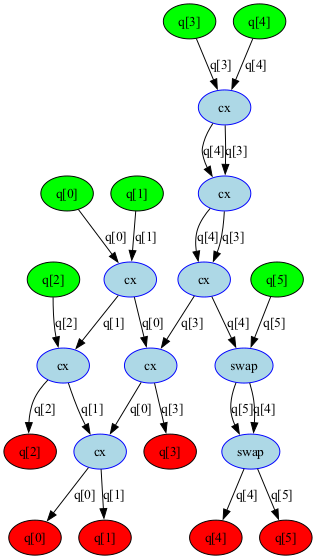
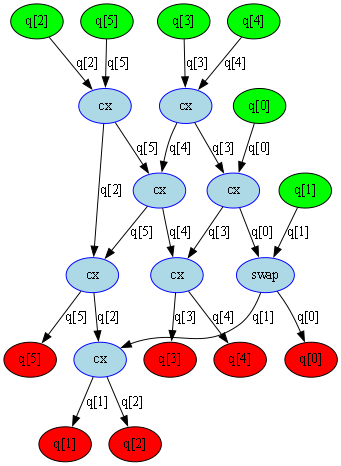
WE'VE DONE IT RAHHHHHHHHH

diff --git a/ZCswap_gaps.py b/ZCswap_gaps.py
@@ -249,27 +249,54 @@ class SabreSwap(TransformationPass):
         except TypeError:
             pass
 
+        print("if it messes up after this we're screwed")
+
         # if the gate doesnt match but applies on a line with gates stored, we need to apply the prior gate if possible, otherwise just add the gate into the buffer
         prior = None
-        if self.gate_storage[gate_control]:
-            prior = self.gate_storage[gate_control]["node"]
+        if isinstance(self.gate_storage[gate_control], dict):
+            print("found prior on control")
+            print(self.gate_storage[gate_control])
+            if not self.gate_storage[gate_control]["applied"]:
+                print("it wasn't applied")
+                prior = self.gate_storage[gate_control]["node"]
 
-        elif self.gate_storage[gate_target]:
-            prior = self.gate_storage[gate_target]["node"]
+        elif isinstance(self.gate_storage[gate_target], dict):
+            print("found prior on target")
+            print(self.gate_storage[gate_target])
+            if not self.gate_storage[gate_target]["applied"]:
+                print("it wasn't applied")
+                prior = self.gate_storage[gate_target]["node"]
 
-        if prior == self.node_buffer:
-            print("Tried to reapply same last gate")
-            print(self.gate_storage)
-            print(f"prior: {prior.op.name}, {prior.qargs}")
-            print(f"buffer: {self.node_buffer.op.name}, {self.node_buffer.qargs}")
-            print(self.gap_storage)
-            print(f"buffer str: {self.node_buffer}, prior str: {prior}")
-            return
+        # if (
+        #     prior == self.node_buffer and self.node_buffer is not None
+        # ):  # had to add a reset for the None reset on a swap
+        #     print("Tried to reapply same last gate")
+        #     print(self.gate_storage)
+        #     print(f"prior: {prior.op.name}, {prior.qargs}")
+        #     print(f"buffer: {self.node_buffer.op.name}, {self.node_buffer.qargs}")
+        #     print(self.gap_storage)
+        #     print(f"buffer str: {self.node_buffer}, prior str: {prior}")
+        #     return
 
         if prior:
-            prior = _transform_gate_for_layout(
-                prior, current_layout, canonical_register
-            )  # Addon
+            print("found a prior and doing weird stuff")
+            # prior = _transform_gate_for_layout(
+            #     prior, current_layout, canonical_register
+            # )  # Addon
+            prior_control, prior_target = self.get_qubits_from_layout(
+                prior, current_layout
+            )
+            mapped_dag.apply_operation_back(prior.op, prior.qargs, prior.cargs)
+            # update prior in storage
+            self.gate_storage[prior_control]["applied"] = True
+            self.gate_storage[prior_target]["applied"] = True
+
+        elif isinstance(self.node_buffer, DAGOpNode):
+            print("Didn't find a prior, lets pull from storage")
+            prior = self.node_buffer
+            # prior = _transform_gate_for_layout(
+            #     prior, current_layout, canonical_register
+            # )  # ! Bad
             prior_control, prior_target = self.get_qubits_from_layout(
                 prior, current_layout
             )
@@ -352,8 +379,8 @@ class SabreSwap(TransformationPass):
             )
 
             # Update in storage
-            self.gate_storage[buffer_control]["applied"]
-            self.gate_storage[buffer_target]["applied"]
+            self.gate_storage[buffer_control]["applied"] = True
+            self.gate_storage[buffer_target]["applied"] = True
 
             self.node_buffer = None
 
@@ -430,7 +457,7 @@ class SabreSwap(TransformationPass):
         print(self.gate_storage)
         draw_circuit(dag_to_circuit(mapped_dag), f"output{self.iteration}")
         self.iteration += 1
-        # input()
+        ## input()
 
         if self.fake_run:
             return node
@@ -701,7 +728,8 @@ class SabreSwap(TransformationPass):
 
     def _apply_gate(self, mapped_dag, node, current_layout, canonical_register):
         # * zc Applies the gate onto the current dag, after transforming the gate
-        new_node = _transform_gate_for_layout(node, current_layout, canonical_register)
+        # new_node = _transform_gate_for_layout(node, current_layout, canonical_register)
+        new_node = node
         if self.fake_run:
             return new_node
         return mapped_dag.apply_operation_back(

diff --git a/ag.py b/ag.py
@@ -10,8 +10,8 @@ def output_architecture(func):
         g = func(*args, **kwargs)
         import matplotlib.pyplot as plt  # For drawing the graphs
 
-        # nx.draw(g, with_labels=True, font_weight='bold')
-        nx.draw_kamada_kawai(g, with_labels=True, font_weight="bold")
+        nx.draw(g, with_labels=True, font_weight="bold")
+        # nx.draw_kamada_kawai(g, with_labels=True, font_weight="bold")
         plt.savefig("debug/architecture.png")
         return g
 
